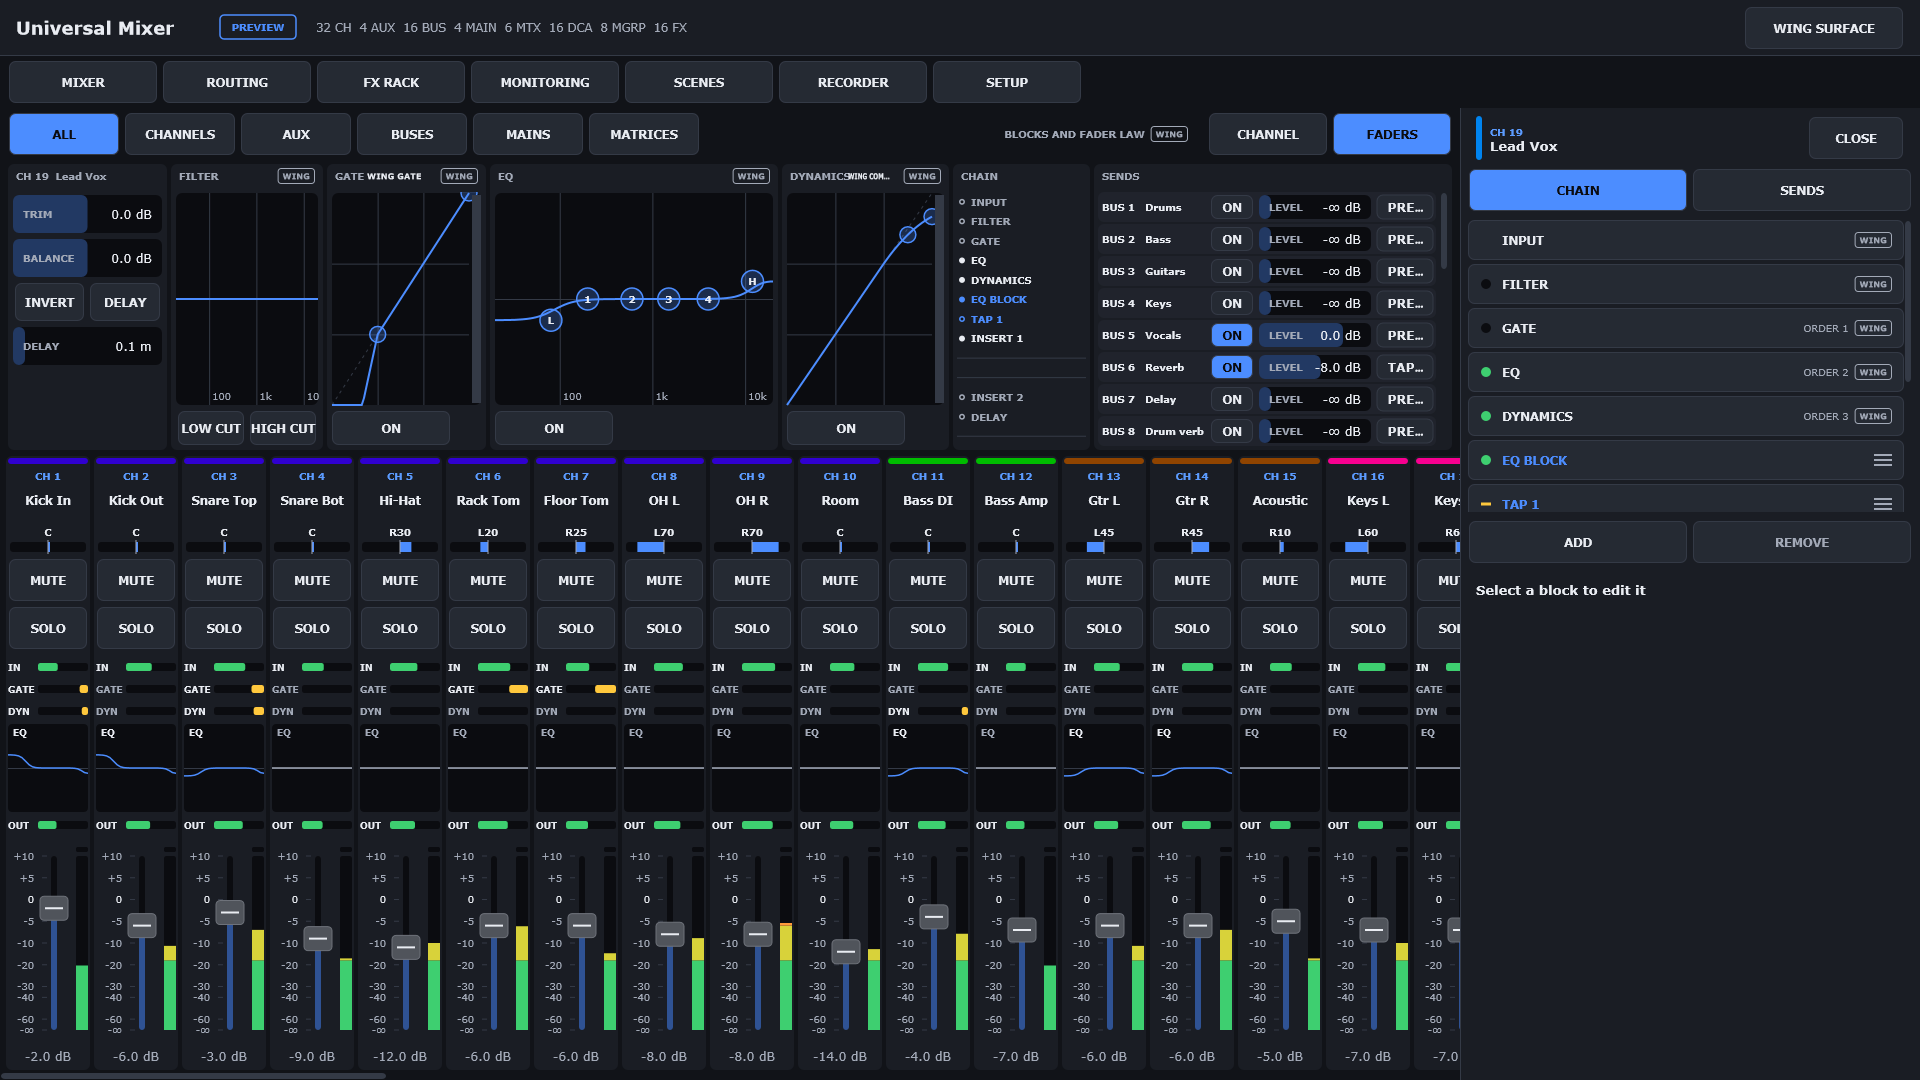
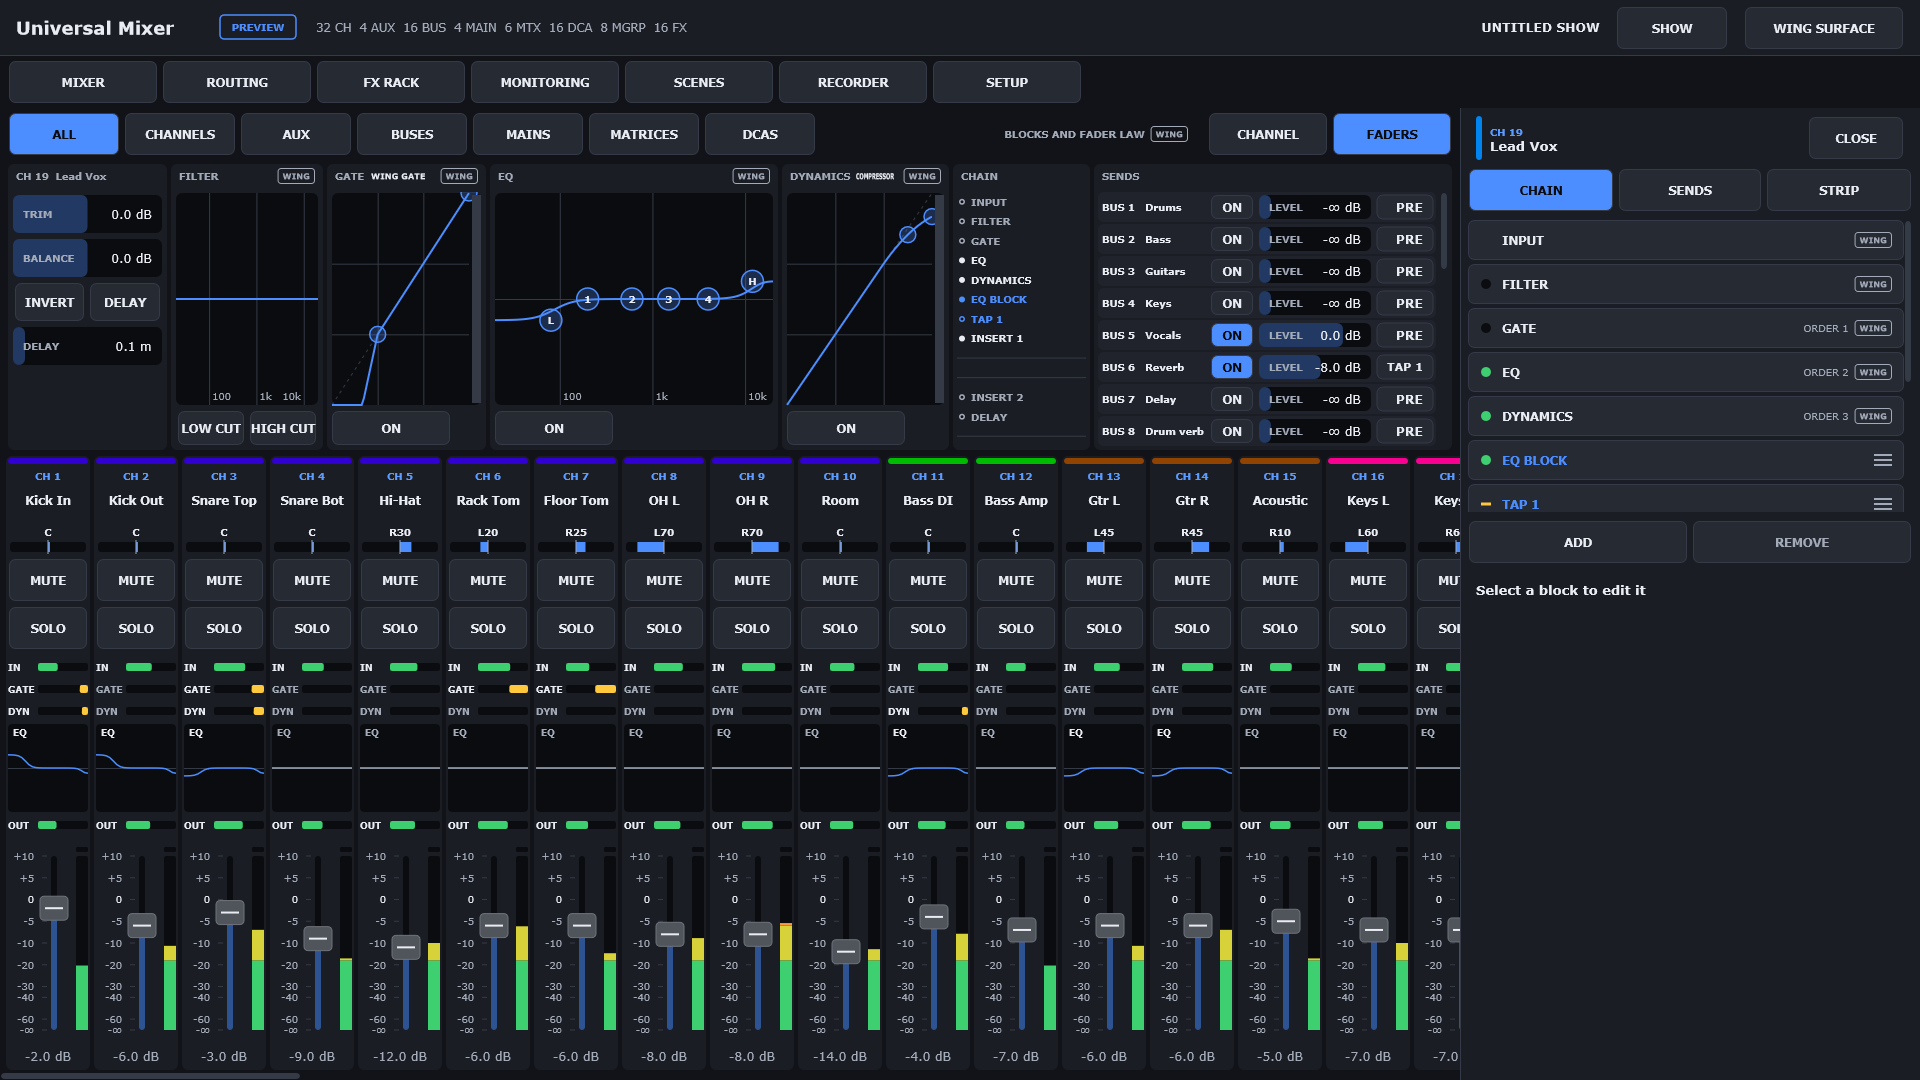
Universal Mixer: fresh pictures for the user guide; a readable DYNAMICS title
The user guide's Universal Mixer pictures rendered again (tests'
Screenshots): the top bar with the show and its SHOW key, MIXER's DCAS key,
the inspector's STRIP tab, MONITORING's processing and talkback.

Seen in them: the DYNAMICS panel's model name shrank until unreadable. Too
long for its room, it now drops "WING " (the panel's tag says it) before
narrowing, and stops at a readable size.

C++ all tests passed.

diff --git a/src/ui/universal/ChannelPanel.cpp b/src/ui/universal/ChannelPanel.cpp
@@ -241,11 +241,15 @@ void ChannelPanel::paint (juce::Graphics& g)
             {
                 const auto& slot = s == GateSection ? strip->params.gate() : strip->params.dynamics();
                 g.setColour (theme.text);
-                // Narrowed, then smaller, rather than cut ("WING CO..."): the sections are slim.
-                const auto modelName = models::model (models::Dynamics, slot.model.load()).name.toUpperCase();
-                if (const float w = juce::GlyphArrangement::getStringWidth (g.getCurrentFont(), modelName) * 0.6f; w > title.getWidth() && w > 0.0f)
-                    g.setFont (g.getCurrentFont().withHeight (juce::jmax (8.0f, g.getCurrentFont().getHeight() * title.getWidth() / w)));
-                g.drawFittedText (modelName, title.toNearestInt(), juce::Justification::centredLeft, 1, 0.6f);
+                // Narrowed rather than cut ("WING CO..."): the sections are slim. Too long
+                // even so, it drops "WING " (the section's tag says it) and gets a little smaller.
+                auto modelName = models::model (models::Dynamics, slot.model.load()).name.toUpperCase();
+                const auto fits = [&g, &title] (const juce::String& s) { return juce::GlyphArrangement::getStringWidth (g.getCurrentFont(), s) * 0.5f <= title.getWidth(); };
+                if (! fits (modelName) && modelName.startsWith ("WING "))
+                    modelName = modelName.substring (5);
+                if (const float w = juce::GlyphArrangement::getStringWidth (g.getCurrentFont(), modelName) * 0.5f; w > title.getWidth() && w > 0.0f)
+                    g.setFont (g.getCurrentFont().withHeight (juce::jmax (9.0f, g.getCurrentFont().getHeight() * title.getWidth() / w)));
+                g.drawFittedText (modelName, title.toNearestInt(), juce::Justification::centredLeft, 1, 0.5f);
             }
         }
         if ((s == FilterSection || s == GateSection) && ! channel)
